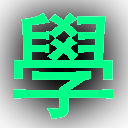
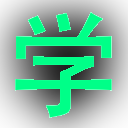
学

diff --git a/content.js b/content.js
@@ -12,22 +12,22 @@
   const MAX_DISPLAY_ENTRIES = 3;
   const SPEECH_RATE = 0.85;
 
-  // No-result phrases (Traditional Chinese, Taiwan Mandarin)
+  // No-result phrases (Simplified Chinese)
   const NO_RESULT_PHRASES = [
     { s: '看不懂', p: 'kàn bù dǒng', d: ["can't understand what I'm seeing"] },
-    { s: '沒聽過', p: 'méi tīngguò', d: ["never heard of it"] },
-    { s: '問倒我了', p: 'wèn dǎo wǒ le', d: ["you've stumped me"] },
-    { s: '我的中文還要加油', p: 'wǒ de Zhōngwén hái yào jiāyóu', d: ["my Chinese still needs work"] },
-    { s: '字典也沒辦法', p: 'zìdiǎn yě méi bànfǎ', d: ["even the dictionary can't help"] },
-    { s: '這個嘛……', p: 'zhège ma...', d: ["well, this..."] },
+    { s: '没听过', p: 'méi tīngguò', d: ["never heard of it"] },
+    { s: '问倒我了', p: 'wèn dǎo wǒ le', d: ["you've stumped me"] },
+    { s: '我的中文还要加油', p: 'wǒ de Zhōngwén hái yào jiāyóu', d: ["my Chinese still needs work"] },
+    { s: '字典也没办法', p: 'zìdiǎn yě méi bànfǎ', d: ["even the dictionary can't help"] },
+    { s: '这个嘛……', p: 'zhège ma...', d: ["well, this..."] },
     { s: '蛤？', p: 'há?', d: ["huh?"] },
-    { s: '天啊，這什麼？', p: 'tiān a, zhè shénme?', d: ["heavens, what is this?"] },
-    { s: '沒有頭緒', p: 'méiyǒu tóuxù', d: ["no clue"] },
+    { s: '天啊，这什么？', p: 'tiān a, zhè shénme?', d: ["heavens, what is this?"] },
+    { s: '没有头绪', p: 'méiyǒu tóuxù', d: ["no clue"] },
     { s: '我想一下', p: 'wǒ xiǎng yíxià', d: ["let me think a moment"] },
-    { s: '不知道怎麼說', p: 'bù zhīdào zěnme shuō', d: ["don't know how to say it"] },
-    { s: '這個我真的不會', p: 'zhège wǒ zhēnde bú huì', d: ["this one I really don't know"] },
-    { s: '學到老，還是不會', p: 'xué dào lǎo, háishì bú huì', d: ["study till old age, still won't know"] },
-    { s: '找不到，但沒關係', p: 'zhǎo bú dào, dàn méi guānxì', d: ["can't find it, but no worries"] },
+    { s: '不知道怎么说', p: 'bù zhīdào zěnme shuō', d: ["don't know how to say it"] },
+    { s: '这个我真的不会', p: 'zhège wǒ zhēnde bú huì', d: ["this one I really don't know"] },
+    { s: '学到老，还是不会', p: 'xué dào lǎo, háishì bú huì', d: ["study till old age, still won't know"] },
+    { s: '找不到，但没关系', p: 'zhǎo bú dào, dàn méi guānxì', d: ["can't find it, but no worries"] },
     { s: '我也不知道耶', p: 'wǒ yě bù zhīdào yē', d: ["I don't know either"] },
   ];
 
@@ -42,6 +42,16 @@
     showAudio: true,
     fontSize: 24
   };
+
+  const CEDICT_REFERENCE_PATTERN = /([^\s,;:()\[\]\/|]*[\p{Script=Han}][^\s,;:()\[\]\/|]*)\|([^\s,;:()\[\]\/|]*[\p{Script=Han}][^\s,;:()\[\]\/|]*)(\[[^\]]+\])?/gu;
+
+  function formatDefinition(definition) {
+    return definition.replace(CEDICT_REFERENCE_PATTERN, '$2$3');
+  }
+
+  function formatDefinitions(definitions) {
+    return definitions.slice(0, 2).map(formatDefinition).join('; ');
+  }
 
   // Load settings
   async function loadSettings() {
@@ -140,7 +150,7 @@
     if (showDefinitions) {
       const defsDiv = document.createElement('div');
       defsDiv.className = 'mandopop-definitions';
-      defsDiv.textContent = entry.d.slice(0, 2).join('; ');
+      defsDiv.textContent = formatDefinitions(entry.d);
       contentDiv.appendChild(defsDiv);
     }
 

diff --git a/android/app/src/main/java/com/mandopop/overlay/NoResultPhrases.kt b/android/app/src/main/java/com/mandopop/overlay/NoResultPhrases.kt
@@ -5,19 +5,19 @@ import com.mandopop.dictionary.CedictEntry
 object NoResultPhrases {
     private val phrases = listOf(
         CedictEntry("看不懂", "kàn bù dǒng", listOf("can't understand what I'm seeing")),
-        CedictEntry("沒聽過", "méi tīngguò", listOf("never heard of it")),
-        CedictEntry("問倒我了", "wèn dǎo wǒ le", listOf("you've stumped me")),
-        CedictEntry("我的中文還要加油", "wǒ de Zhōngwén hái yào jiāyóu", listOf("my Chinese still needs work")),
-        CedictEntry("字典也沒辦法", "zìdiǎn yě méi bànfǎ", listOf("even the dictionary can't help")),
-        CedictEntry("這個嘛……", "zhège ma...", listOf("well, this...")),
+        CedictEntry("没听过", "méi tīngguò", listOf("never heard of it")),
+        CedictEntry("问倒我了", "wèn dǎo wǒ le", listOf("you've stumped me")),
+        CedictEntry("我的中文还要加油", "wǒ de Zhōngwén hái yào jiāyóu", listOf("my Chinese still needs work")),
+        CedictEntry("字典也没办法", "zìdiǎn yě méi bànfǎ", listOf("even the dictionary can't help")),
+        CedictEntry("这个嘛……", "zhège ma...", listOf("well, this...")),
         CedictEntry("蛤？", "há?", listOf("huh?")),
-        CedictEntry("天啊，這什麼？", "tiān a, zhè shénme?", listOf("heavens, what is this?")),
-        CedictEntry("沒有頭緒", "méiyǒu tóuxù", listOf("no clue")),
+        CedictEntry("天啊，这什么？", "tiān a, zhè shénme?", listOf("heavens, what is this?")),
+        CedictEntry("没有头绪", "méiyǒu tóuxù", listOf("no clue")),
         CedictEntry("我想一下", "wǒ xiǎng yíxià", listOf("let me think a moment")),
-        CedictEntry("不知道怎麼說", "bù zhīdào zěnme shuō", listOf("don't know how to say it")),
-        CedictEntry("這個我真的不會", "zhège wǒ zhēnde bú huì", listOf("this one I really don't know")),
-        CedictEntry("學到老，還是不會", "xué dào lǎo, háishì bú huì", listOf("study till old age, still won't know")),
-        CedictEntry("找不到，但沒關係", "zhǎo bú dào, dàn méi guānxì", listOf("can't find it, but no worries")),
+        CedictEntry("不知道怎么说", "bù zhīdào zěnme shuō", listOf("don't know how to say it")),
+        CedictEntry("这个我真的不会", "zhège wǒ zhēnde bú huì", listOf("this one I really don't know")),
+        CedictEntry("学到老，还是不会", "xué dào lǎo, háishì bú huì", listOf("study till old age, still won't know")),
+        CedictEntry("找不到，但没关系", "zhǎo bú dào, dàn méi guānxì", listOf("can't find it, but no worries")),
         CedictEntry("我也不知道耶", "wǒ yě bù zhīdào yē", listOf("I don't know either")),
     )
 

diff --git a/tests/content.test.js b/tests/content.test.js
@@ -81,6 +81,12 @@ function calculatePopupPosition(x, y, popupWidth, popupHeight, viewportWidth, vi
   return { left, top };
 }
 
+const CEDICT_REFERENCE_PATTERN = /([^\s,;:()\[\]\/|]*[\p{Script=Han}][^\s,;:()\[\]\/|]*)\|([^\s,;:()\[\]\/|]*[\p{Script=Han}][^\s,;:()\[\]\/|]*)(\[[^\]]+\])?/gu;
+
+function formatDefinition(definition) {
+  return definition.replace(CEDICT_REFERENCE_PATTERN, '$2$3');
+}
+
 describe('isValidSelection', () => {
   describe('accepts valid selections', () => {
     it('accepts regular English words', () => {
@@ -147,6 +153,37 @@ describe('isValidSelection', () => {
       const text = 'a'.repeat(101);
       expect(isValidSelection(text)).toBe(false);
     });
+  });
+});
+
+describe('formatDefinition', () => {
+  it('keeps simplified side of CEDICT cross references', () => {
+    expect(formatDefinition('see also 鰈|鲽[die2]')).toBe('see also 鲽[die2]');
+  });
+
+  it('formats multiple classifier references', () => {
+    expect(formatDefinition('CL:個|个[ge4],塊|块[kuai4]')).toBe('CL:个[ge4],块[kuai4]');
+  });
+
+  it('keeps simplified side of unbracketed CEDICT cross references', () => {
+    expect(formatDefinition('one of the Six Methods 六書|六书')).toBe('one of the Six Methods 六书');
+  });
+
+  it('handles middle-dot names in cross references', () => {
+    expect(formatDefinition('Herman Melville 赫曼·麥爾維爾|赫曼·麦尔维尔[He4 man4 Mai4 er3 wei2 er3]'))
+      .toBe('Herman Melville 赫曼·麦尔维尔[He4 man4 Mai4 er3 wei2 er3]');
+  });
+
+  it('handles mixed symbol reference tokens', () => {
+    expect(formatDefinition('95後|95后[jiu3 wu3 hou4]')).toBe('95后[jiu3 wu3 hou4]');
+    expect(formatDefinition('B型超聲|B型超声[B xing2 chao1 sheng1]'))
+      .toBe('B型超声[B xing2 chao1 sheng1]');
+    expect(formatDefinition('γ射線|γ射线[gamma she4 xian4]')).toBe('γ射线[gamma she4 xian4]');
+    expect(formatDefinition('∼的大門|∼的大门[xx5 de5 da4 men2]')).toBe('∼的大门[xx5 de5 da4 men2]');
+  });
+
+  it('leaves definitions without cross references unchanged', () => {
+    expect(formatDefinition('hello; hi')).toBe('hello; hi');
   });
 });
 

diff --git a/android/app/src/test/java/com/mandopop/dictionary/CedictDefinitionFormatterTest.kt b/android/app/src/test/java/com/mandopop/dictionary/CedictDefinitionFormatterTest.kt
@@ -1,0 +1,46 @@
+package com.mandopop.dictionary
+
+import org.junit.Assert.assertEquals
+import org.junit.Test
+
+class CedictDefinitionFormatterTest {
+    @Test
+    fun keepsSimplifiedSideOfBracketedReferences() {
+        assertEquals("see also 鲽[die2]", CedictDefinitionFormatter.format("see also 鰈|鲽[die2]"))
+    }
+
+    @Test
+    fun formatsMultipleClassifierReferences() {
+        assertEquals(
+            "CL:个[ge4],块[kuai4]",
+            CedictDefinitionFormatter.format("CL:個|个[ge4],塊|块[kuai4]"),
+        )
+    }
+
+    @Test
+    fun keepsSimplifiedSideOfUnbracketedReferences() {
+        assertEquals(
+            "one of the Six Methods 六书",
+            CedictDefinitionFormatter.format("one of the Six Methods 六書|六书"),
+        )
+    }
+
+    @Test
+    fun handlesMixedSymbolReferenceTokens() {
+        assertEquals("95后[jiu3 wu3 hou4]", CedictDefinitionFormatter.format("95後|95后[jiu3 wu3 hou4]"))
+        assertEquals(
+            "B型超声[B xing2 chao1 sheng1]",
+            CedictDefinitionFormatter.format("B型超聲|B型超声[B xing2 chao1 sheng1]"),
+        )
+        assertEquals("γ射线[gamma she4 xian4]", CedictDefinitionFormatter.format("γ射線|γ射线[gamma she4 xian4]"))
+        assertEquals(
+            "∼的大门[xx5 de5 da4 men2]",
+            CedictDefinitionFormatter.format("∼的大門|∼的大门[xx5 de5 da4 men2]"),
+        )
+    }
+
+    @Test
+    fun preservesDefinitionLimit() {
+        assertEquals("一; 二", CedictDefinitionFormatter.formatList(listOf("一", "二", "三")))
+    }
+}

diff --git a/android/app/src/main/java/com/mandopop/overlay/OverlayCard.kt b/android/app/src/main/java/com/mandopop/overlay/OverlayCard.kt
@@ -52,6 +52,7 @@ import androidx.compose.ui.unit.dp
 import androidx.compose.ui.unit.sp
 import com.mandopop.R
 import com.mandopop.dictionary.CedictEntry
+import com.mandopop.dictionary.CedictDefinitionFormatter
 
 @Composable
 fun OverlayCard(
@@ -187,7 +188,7 @@ private fun EntryRow(
 
             if (showDefinitions) {
                 Text(
-                    text = entry.definitions.take(2).joinToString("; "),
+                    text = CedictDefinitionFormatter.formatList(entry.definitions),
                     color = MutedText,
                     fontSize = 12.sp,
                 )

diff --git a/android/app/src/main/java/com/mandopop/dictionary/CedictDefinitionFormatter.kt b/android/app/src/main/java/com/mandopop/dictionary/CedictDefinitionFormatter.kt
@@ -1,0 +1,15 @@
+package com.mandopop.dictionary
+
+object CedictDefinitionFormatter {
+    private val referencePattern = Regex(
+        """([^\s,;:()\[\]/|]*[\p{script=Han}][^\s,;:()\[\]/|]*)\|([^\s,;:()\[\]/|]*[\p{script=Han}][^\s,;:()\[\]/|]*)(\[[^\]]+\])?""",
+    )
+
+    fun formatList(definitions: List<String>, limit: Int = 2): String =
+        definitions.take(limit).joinToString("; ", transform = ::format)
+
+    fun format(definition: String): String =
+        referencePattern.replace(definition) { match ->
+            "${match.groupValues[2]}${match.groupValues[3]}"
+        }
+}

diff --git a/android/app/src/main/java/com/mandopop/MainActivity.kt b/android/app/src/main/java/com/mandopop/MainActivity.kt
@@ -231,7 +231,7 @@ private fun Header() {
             fontWeight = FontWeight.Bold,
         )
         Text(
-            text = "學",
+            text = "学",
             color = NeonGreen,
             fontSize = 40.sp,
             fontWeight = FontWeight.SemiBold,

diff --git a/README.md b/README.md
@@ -1,4 +1,4 @@
-# 學 Mandopop
+# 学 Mandopop
 
 Chrome extension for learning Mandarin vocabulary while browsing. Select any English word/phrase for popup with Chinese characters, pinyin & pronunciation.
 
@@ -58,7 +58,7 @@ mandopop/
 ├── popup.html/js      # Settings panel
 ├── cedict.json        # CC-CEDICT dictionary (preprocessed, ~17MB)
 ├── android/           # Sideload-only Android app
-└── icons/             # Extension icons (學 character)
+└── icons/             # Extension icons (学 character)
 ```
 
 ## Development
